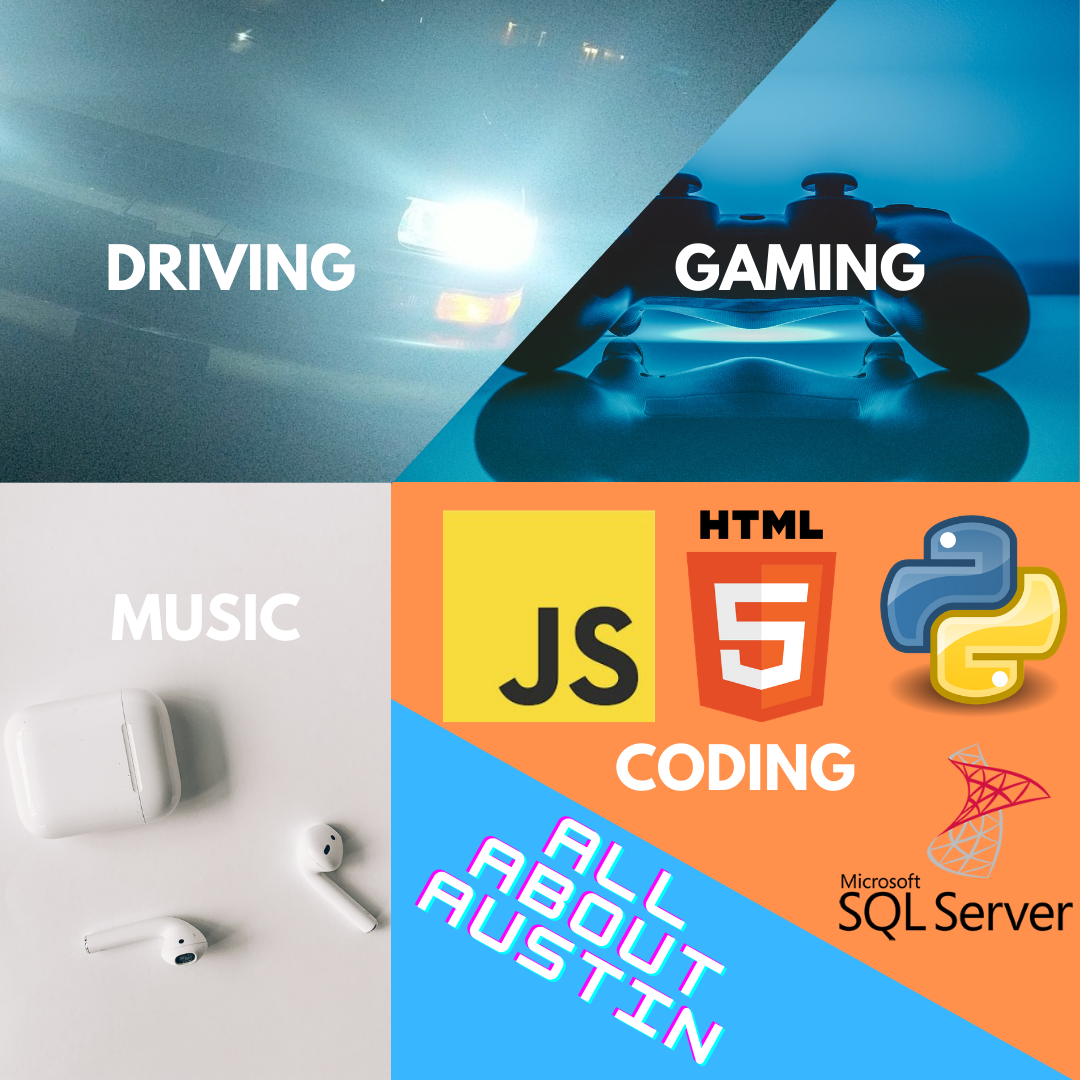
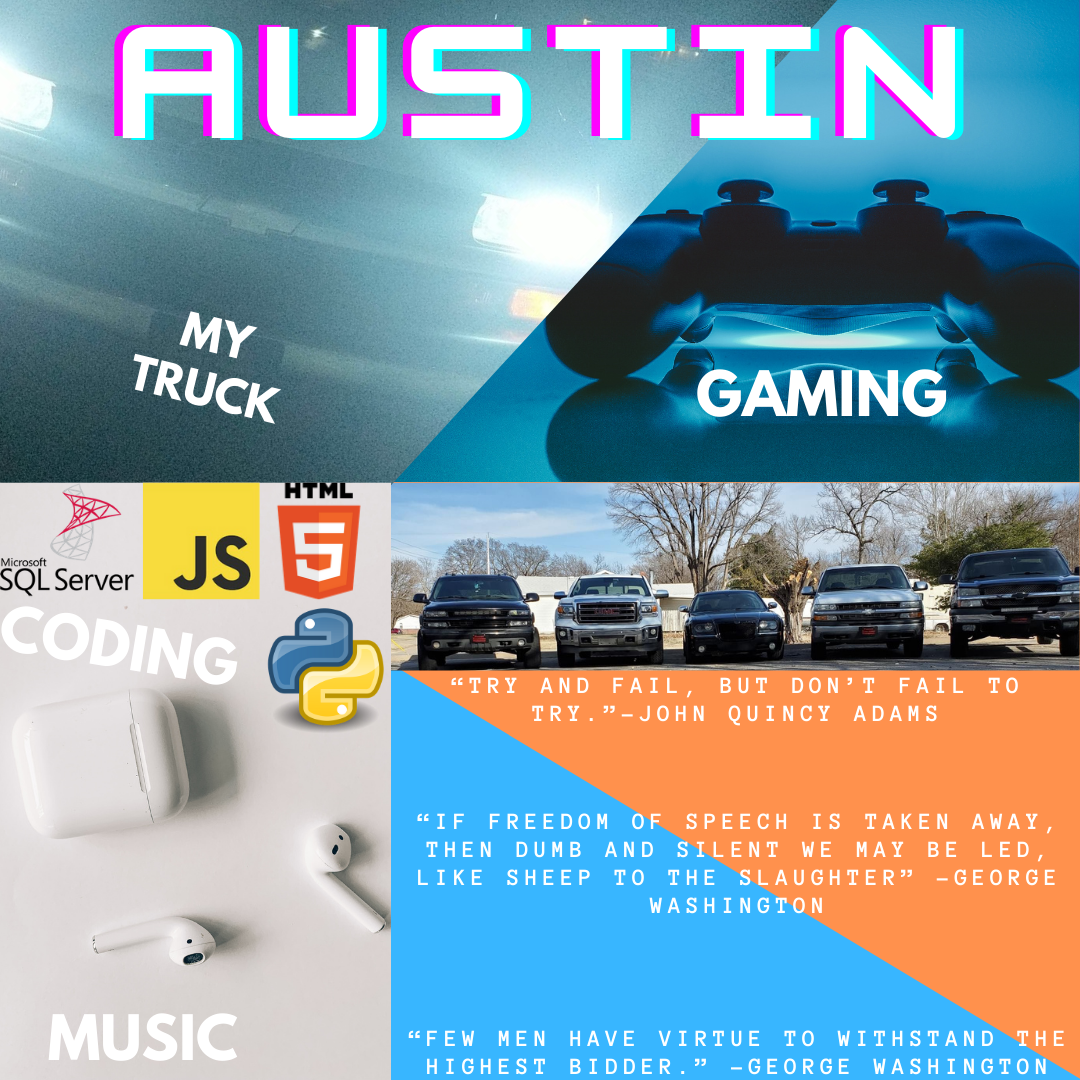
Add files via upload

diff --git a/Vision Board/index.htm b/Vision Board/index.htm
@@ -8,8 +8,8 @@
 
 	<body>
 		<div>
-			<!--The only image I care to share ever-->
-			<img id="I_Dont_Like_Sharing_Pictures_of_Me_Or_My_Family" src="https://avatars2.githubusercontent.com/u/58955129?s=400&u=01495c5c0f899ccb6e237fb89c9ec8f7d6996d72&v=4" />
+			<!--I don't have a lot of pictures-->
+			<img id="I_Dont_Have_Very_Many_Pictures_Of_Me_Or_My_Family" src="https://avatars2.githubusercontent.com/u/58955129?s=400&u=01495c5c0f899ccb6e237fb89c9ec8f7d6996d72&v=4" />
 		</div>
 		<div id="Goals">
 			<h1 class="text-center">&spades; Goals &spades;</h1>
@@ -43,13 +43,13 @@
 			<h1 class="text-center">&diams; Inspiring &diams;</h1>
 			<hr />
 			<ul>
-				<li>Code Languages</li>
-				<li>Console</li>
-				<li>AirPods</li>
+				<li>Try and fail, but don't fail to try. -<em>John Quincy Adams</em></li>
+				<li>If freedom of speech is taken away, then dumb and silent we may be led, like sheep to the slaughter. -<em>George Washington</em></li>
+				<li>Few men have virtue to withstand the highest bidder. -<em>George Washington</em></li>
 			</ul>
 			<p>
-				A few items on my vision board hold a <em>double</em> meaning, as these items are inspiring to me as they all went through trial and error. Although I know I'll never achieve something at a such a scale, all those items went through long
-				development processes for optimization. It drives me to try and create optimized and secure applications when coding. They are all examples of massive teams and the trial and error process of desigining and producing such items.
+				For the <em>first quote</em>, it is important, especially relating to coding, because failing is a big part (at least for me), with debugging errors. With failure comes learning. The <em>second quote</em> is pretty self-explanatory, that
+				freedom of speech and expression is important in any free nation. The <em>last one</em> <strong>sadly</strong> holds true nowadays. Everyone has a price, I hope not to be one of those with a price.
 			</p>
 			<br />
 		</div>
@@ -58,15 +58,13 @@
 			<hr />
 			<ol>
 				<li>My Truck</li>
-				<li>Console</li>
+				<li>Family</li>
 				<li>JavaScript</li>
 			</ol>
 			<p>
-				<strong>My Truck</strong> is extremely special to me, as it was the first time I stepped out of my comfort zone and had a responsibillity to pay for something on my own and manage it. It shaped me into an individualistic person, becoming far
-				less dependent on anyone else. My Gaming Console has also shapped me into who I am, it has pushed me to overcome obsticals and become far more analytical of things I see. As in any strategy game, you must figure out a solution to problem, and
-				this translates into coding aswell. Figuring out a solution to a problem. <em>JavaScript</em> is, and will always be special to me, it was the <strong>first</strong> Coding Language, and still by far my favorite language. Without JavaScript,
-				I wouldn't have taken this class, I wouldn't have even though to do anything related to engineering. JavaScript has allowed me to find oppurtunities I didn't originally have. I continue to try and code at least an hour of JavaScript every day
-				in hopes of making one big project. I am still far from that, but I am trying.
+				<strong>My Truck</strong> is extremely important to me, it gave me freedom. Something every teenager needs, to be able to go and make decisions and figure out life on their own. It gave me the abillity to leave and go when I want to.
+				Secondly, family is extremely important to me. Without my family I wouldn't be who I am today. Knowing that my family is always there for me is a comforting feeling. Lastly, <em>JavaScript</em>, JavaScript welcomed me into the wonderful world
+				of coding. I've enjoyed everyon minute (even every debugging minute, or should I say hours). It's nice to see projects come to life.
 			</p>
 			<br />
 		</div>
@@ -82,7 +80,7 @@
 		</div>
 		<footer>
 			<br /><br /><br /><br /><br /><br /><br /><br /><br /><br /><br /><br /><br /><br /><br /><br /><br /><br /><br /><br /><br /><br /><br /><br /><br /><br /><br /><br /><br /><br /><br /><br /><br /><br /><br /><br /><br /><br /><br /><br /><br /><br /><br /><br /><br /><br /><br /><br /><br /><br /><br /><br /><br /><br /><br /><br /><br /><br /><br /><br /><br /><br /><br /><br /><br /><br /><br /><br /><br /><br /><br /><br /><br /><br /><br /><br /><br /><br /><br /><br /><br /><br /><br /><br /><br /><br /><br /><br /><br /><br /><br /><br /><br /><br /><br /><br /><br /><br /><br /><br /><br /><br /><br /><br /><br /><br /><br /><br /><br /><br /><br /><br /><br /><br /><br /><br /><br /><br /><br /><br /><br /><br /><br /><br /><br /><br /><br /><br /><br /><br /><br /><br /><br /><br /><br /><br /><br /><br /><br /><br /><br /><br /><br /><br /><br /><br /><br /><br /><br /><br /><br /><br /><br /><br /><br /><br /><br /><br /><br /><br /><br /><br /><br /><br /><br /><br /><br /><br /><br /><br /><br /><br /><br /><br /><br /><br /><br /><br /><br /><br /><br /><br /><br /><br /><br /><br /><br /><br /><br /><br /><br /><br /><br /><br /><br /><br /><br /><br /><br /><br /><br /><br /><br /><br /><br /><br /><br /><br /><br /><br /><br /><br /><br /><br /><br /><br /><br /><br /><br /><br /><br /><br /><br /><br /><br /><br /><br /><br /><br /><br /><br /><br /><br /><br /><br /><br /><br /><br /><br /><br /><br /><br /><br /><br /><br /><br /><br /><br /><br /><br /><br /><br /><br /><br /><br /><br /><br /><br /><br /><br /><br /><br /><br /><br /><br /><br /><br /><br /><br /><br /><br /><br /><br /><br /><br /><br /><br /><br /><br /><br /><br /><br /><br /><br /><br /><br /><br /><br /><br /><br /><br /><br /><br /><br /><br /><br /><br /><br /><br /><br /><br /><br /><br /><br /><br /><br /><br /><br /><br /><br /><br /><br /><br /><br /><br /><br /><br /><br /><br /><br /><br /><br /><br /><br /><br /><br /><br /><br /><br /><br /><br /><br /><br /><br /><br /><br /><br /><br /><br /><br /><br /><br /><br /><br /><br /><br /><br /><br /><br /><br /><br /><br /><br /><br /><br /><br /><br /><br /><br /><br /><br /><br /><br /><br /><br /><br /><br /><br /><br /><br /><br /><br /><br /><br /><br /><br /><br /><br /><br /><br /><br /><br /><br /><br /><br /><br /><br /><br /><br /><br /><br /><br /><br /><br /><br /><br /><br /><br /><br /><br /><br /><br /><br /><br /><br /><br /><br /><br /><br /><br /><br /><br /><br /><br /><br /><br /><br /><br /><br /><br /><br /><br /><br /><br /><br /><br /><br /><br /><br /><br /><br /><br /><br /><br /><br /><br /><br /><br /><br /><br /><br /><br /><br /><br /><br /><br /><br /><br /><br /><br /><br /><br /><br /><br /><br /><br /><br /><br /><br /><br /><br /><br /><br /><br /><br /><br /><br /><br /><br /><br /><br /><br /><br /><br /><br /><br /><br /><br /><br /><br /><br /><br /><br /><br /><br /><br /><br /><br /><br /><br /><br /><br /><br /><br /><br /><br /><br /><br /><br /><br /><br /><br /><br /><br /><br /><br /><br /><br /><br /><br /><br /><br /><br /><br /><br /><br /><br /><br /><br /><br /><br /><br /><br /><br /><br /><br /><br /><br /><br /><br /><br /><br /><br /><br /><br /><br /><br /><br /><br /><br /><br /><br /><br /><br /><br /><br /><br /><br /><br /><br /><br /><br /><br /><br /><br /><br /><br /><br /><br /><br /><br /><br /><br /><br /><br /><br /><br /><br /><br /><br /><br /><br /><br /><br /><br /><br /><br /><br /><br /><br /><br /><br /><br /><br /><br /><br /><br /><br /><br /><br /><br /><br /><br /><br /><br /><br /><br /><br /><br /><br /><br /><br /><br /><br /><br />
-			<em>Austin was here! Want to return to the top? Click <a href="#I_Dont_Like_Sharing_Pictures_of_Me_Or_My_Family">here</a></em>
+			<em>Austin was here! Want to return to the top? Click <a href="#I_Dont_Have_Very_Many_Pictures_Of_Me_Or_My_Family">here</a></em>
 		</footer>
 	</body>
 </html>

diff --git a/Vision Board/assets/stylesheets/vision.css b/Vision Board/assets/stylesheets/vision.css
@@ -29,9 +29,9 @@ hr {
 	margin-right: 25px;
 }
 /*
-The only picture I care to share ever
+I dont have very many pictures
 */
-#I_Dont_Like_Sharing_Pictures_of_Me_Or_My_Family {
+#I_Dont_Have_Very_Many_Pictures_Of_Me_Or_My_Family {
 	border-radius: 50%;
 	height: 200px;
 	width: auto;
